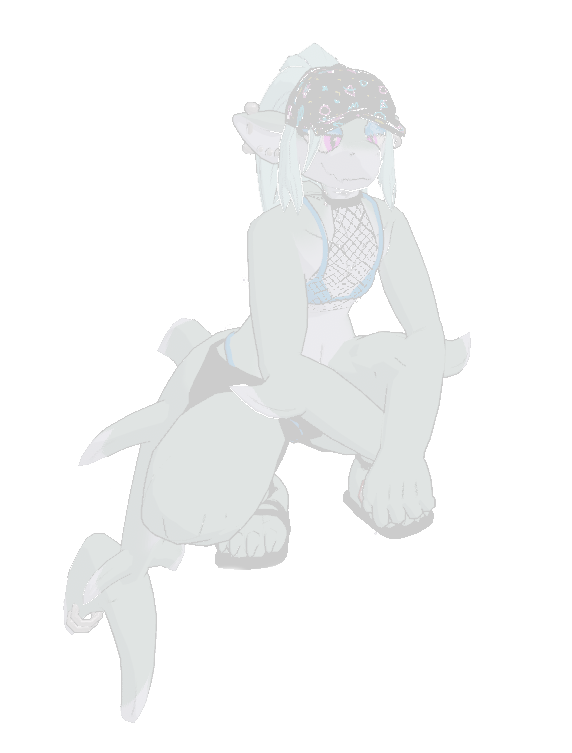
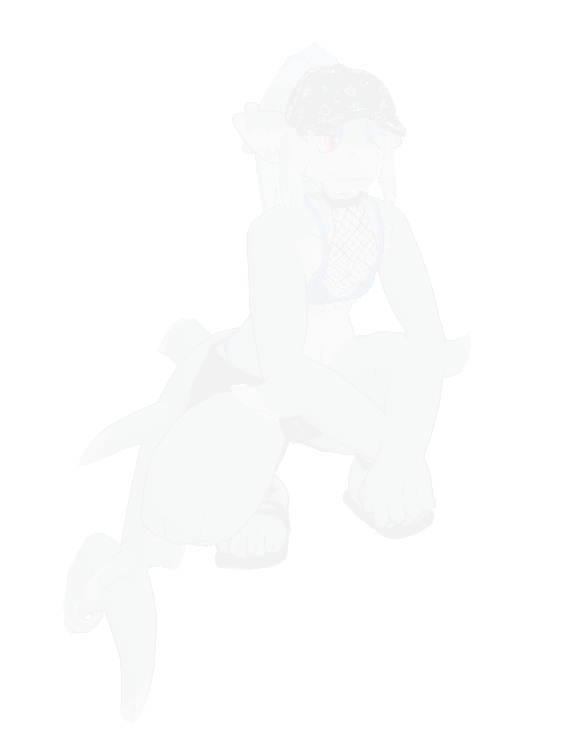
more and more style updates

diff --git a/assets/main.css b/assets/main.css
@@ -60,6 +60,9 @@ body {
   display: flex; 
   min-height: 100vh; 
   flex-direction: column; 
+  background-image: url("/img/bgstars2.gif");
+  background-repeat: repeat;
+  background-attachment: fixed;
 }
 
 /** Set `margin-bottom` to maintain vertical rhythm */
@@ -68,19 +71,21 @@ h1, h2, h3, h4, h5, h6, p, blockquote, pre, ul, ol, dl, figure, .highlight { mar
 /** `main` element */
 main { 
   display: block; 
-  background-image: url("/img/bgstars2.gif"); 
-  background-repeat: repeat; 
-  background-attachment: fixed; 
+  background-image: url("/img/shork_nova2.png"); 
+  background-repeat: no-repeat; 
+  background-attachment: fixed;
+  background-position: left; 
 }
 
 /** Shork Nova */
 
 #shork {
-  background-image: url('/img/shork_nova2.png');
+  background-image: url('/img/shork_nova.png');
   background-repeat: no-repeat;
-  background-position: center;
   background-attachment: fixed;
 }
+
+
 
 /** Images */
 img { max-width: 100%; vertical-align: middle; }
@@ -140,7 +145,13 @@ table th { background-color: #f0f0f0; border: 1px solid #dedede; border-bottom-c
 table td { border: 1px solid #e8e8e8; }
 
 /** Site header */
-.site-header { border-top: 5px solid #424242; border-bottom: 1px solid #000000; min-height: 55.95px; position: relative; background-color: #1C1C1C; }
+.site-header { 
+  border-top: 5px solid #424242; 
+  border-bottom: 1px solid #000000; 
+  min-height: 55.95px; 
+  position: relative; 
+  background-color: #1C1C1C;
+}
 
 .site-title { font-size: 26px; font-weight: 300; line-height: 54px; letter-spacing: -1px; margin-bottom: 0; float: left; }
 .site-title, .site-title:visited { color: #ffffff; }
@@ -160,7 +171,11 @@ table td { border: 1px solid #e8e8e8; }
   .site-nav .page-link:not(:last-child) { margin-right: 0; } }
 
 /** Site footer */
-.site-footer { border-top: 1px solid #000000; padding: 30px 0; background-color: #1C1C1C; }
+.site-footer { 
+  border-top: 1px solid #000000;
+  padding: 30px 0; 
+  background-color: #1C1C1C;
+}
 
 .footer-heading { font-size: 18px; margin-bottom: 15px; }
 

diff --git a/_includes/footer.html b/_includes/footer.html
@@ -1,9 +1,11 @@
+
 <footer class="site-footer h-card">
+
     <data class="u-url" href="/"></data>
   
     <div class="wrapper">
   
-      <h2 class="footer-heading">cmdr-nova@internet:~$</h2>
+
   
       <div class="footer-col-wrapper">
         <div class="footer-col footer-col-1">
@@ -20,5 +22,5 @@
       </div>
   
     </div>
-  
-  </footer>
+
+</div>

diff --git a/_layouts/home.html b/_layouts/home.html
@@ -20,7 +20,6 @@ _________     _____  ________ __________
                                   
 creator of everything -->
 
-<div id="shork">
 
 <p><em>... and here's where I keep all of my brain juice:</em></p>
 
@@ -101,4 +100,3 @@ creator of everything -->
 
 
 
-</div>
